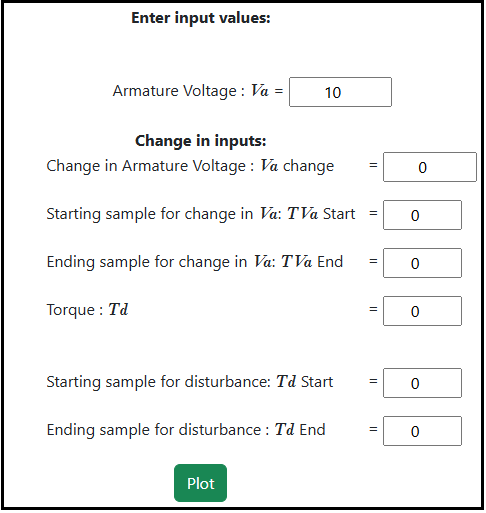
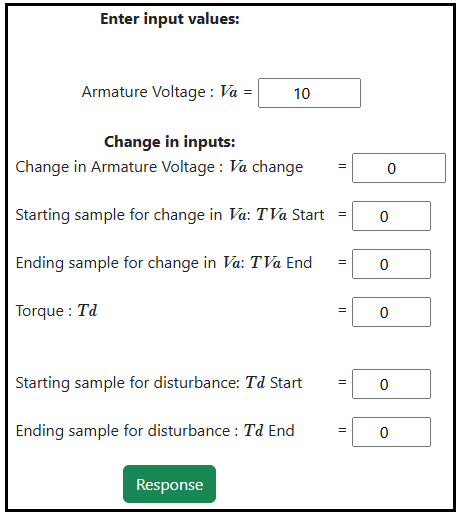
dxpf1

diff --git a/experiment/simulation/index.html b/experiment/simulation/index.html
@@ -131,6 +131,7 @@
         
     </div><!--First Container under body tag end-->
     
+	
     <div class="container p-3 my-5 text-left border"><!--3rd Container under body tag start-->
       <div class="row"><!--First row under 3rd container start-->
         <div class="col-md-1"></div><!--First col under 3rd container start& end-->
@@ -154,7 +155,7 @@
 					 <li> Enter the desired input values. </li><br/> 
 					 
 							 
-					 <li> Click on the 'Plot' button to get the response. </li><br/>
+					 <li> Click on the 'Response' button to get the plot. </li><br/>
 					 
 					 <li> Click on 'Download' button to download the plot.</li><br/> 
 					 					 
@@ -364,7 +365,7 @@
 			<span style="position:absolute;left:38%">Torque  :  <span style="font-family:Bodoni MT;font-style:italic;font-size:18px">Td</span> </span><span style="position:absolute;left:63%">=&nbsp; <input type="number" id="Td1" min="-10" value="0" max="10" step="1" style="position:absolute;text-align:center" ></span><br/></br></br>
 			<span style="position:absolute;left:38%">Starting sample for disturbance:  <span style="font-family:Bodoni MT;font-style:italic;font-size:18px">Td</span> Start</span> <span style="position:absolute;left:63%">=&nbsp; <input type="number" id="tds1" min="0" value="0" max="100" step="1" style="position:absolute;text-align:center" ></span><br/></br>
 		    <span style="position:absolute;left:38%">Ending sample for disturbance :  <span style="font-family:Bodoni MT;font-style:italic;font-size:18px">Td</span> End</span> <span style="position:absolute;left:63%">=&nbsp; <input type="number" id="tde1" min="0" value="0" max="100" step="1" style="position:absolute;text-align:center" ></span><br/></br> 
-			<button class="btn btn-success" id ="plotB" onclick="plotDC()" style="visibility:hidden">Plot</button>
+			<button class="btn btn-success" id ="plotB" onclick="plotDC()" style="visibility:hidden">Response</button>
 						
 			<!-- <p id="Pole_Value1"/>
 			<p id="Pole_Value2"/> -->

diff --git a/experiment/references.md b/experiment/references.md
@@ -1,14 +1,17 @@
 ## References
 #### Books
 
-1) Katsuhiko Ogata - Discrete-Time Control Systems (Second Edition, Prentice Hall)
+<p>1) Katsuhiko Ogata - Discrete-Time Control Systems (Second Edition, Prentice Hall, 1995).</p>
+<p> ("Chapter 3: Z-Plane Analysis of Discrete-Time Control Systems", pp. 98 - 121.)      </p>
+<p> ("Chapter 5: State-Space Analysis", pp. 312 - 319.)      </p>
+<p>2) M. Gopal - Digital Control and State Variable Methods (Second Edition, Tata McGraw-Hill, 2006).</p>
+<p> ("Chapter 5: Control System Analysis Using State Variable Methods", pp. 332 - 339.)      </p>
+<p> ("Chapter 6: State Variable Analysis of Digital Control Systems", pp. 438 - 444.)      </p>	
 
-2) M. Gopal - Digital Control and State Variable Methods (Second Edition, Tata McGraw-Hill)
-								
-#### Video Lectures
+#### NPTEL Lectures
 
-<a href="https://nptel.ac.in/courses/108103008" target="_blank">Click here for NPTEL Lecture on Digital Control Systems</a>
+<p><a href="https://nptel.ac.in/courses/108103008" target="_blank">Click here for NPTEL Lecture on Digital Control Systems</a></p>
 
-("Lecture 1: Motivation for using Z-transform, Lecture 3: Pulse Transfer Function, Lecture 4: Pulse Transfer Functions of Closed Loop Systems", Module 2: Modeling Discrete Time Systems by Pulse Transfer Function)
+<p> ("Lecture 1: Motivation for using Z-transform, Lecture 3: Pulse Transfer Function, Lecture 4: Pulse Transfer Functions of Closed Loop Systems", Module 2: Modeling Discrete Time Systems by Pulse Transfer Function)     </p>
 
-("Lecture 1: Introduction State Variable Model", Module 7: Discrete State Space Models)
+<p> ("Lecture 1: Introduction State Variable Model", Module 7: Discrete State Space Models)     </p>

diff --git a/experiment/procedure.md b/experiment/procedure.md
@@ -1,7 +1,7 @@
 ### Procedure
 
 <b>Steps to perform the simulation</b>
-		
+
 <ol type="1">
 
 <li> Enter the values of the DC motor parameter.</li></br>
@@ -28,7 +28,7 @@
 <img class="img-fluid"  src="./images/2_2.png" alt=""><br>           
 <b>Fig. 4. Button to get the state Space form of the system</b><br/>							  
 </div><br/>
-    
+
 <li> Click on 'Discrete State Space Model' button to get the discrete state space form of the system.</li></br>
 <div align="center">
 <img class="img-fluid"  src="./images/3.png" alt=""><br>           
@@ -49,10 +49,10 @@
 </div><br/>
 
 
-<li> Click on the 'Plot' button to get the response. </li><br/>
+<li> Click on the 'Response' button to generate the plot. </li><br/>
 <div align="center">
 <img class="img-fluid"  src="./images/7.png" alt=""><br> 
-<b>Fig. 8. Plot button to get the response </b><br/>						  
+<b>Fig. 8. Response button to get the plot </b><br/>						  
 </div><br/>
 
 <li> Click on 'Download' button to download the plot.</li><br/> 
@@ -60,6 +60,5 @@
 <li> Click on 'Clear' button to enter the new parameter values of the system.</li><br/> 
 
 </ol>
-
 
 <script id="MathJax-script" async src="https://cdn.jsdelivr.net/npm/mathjax@3/es5/tex-mml-chtml.js"></script>
